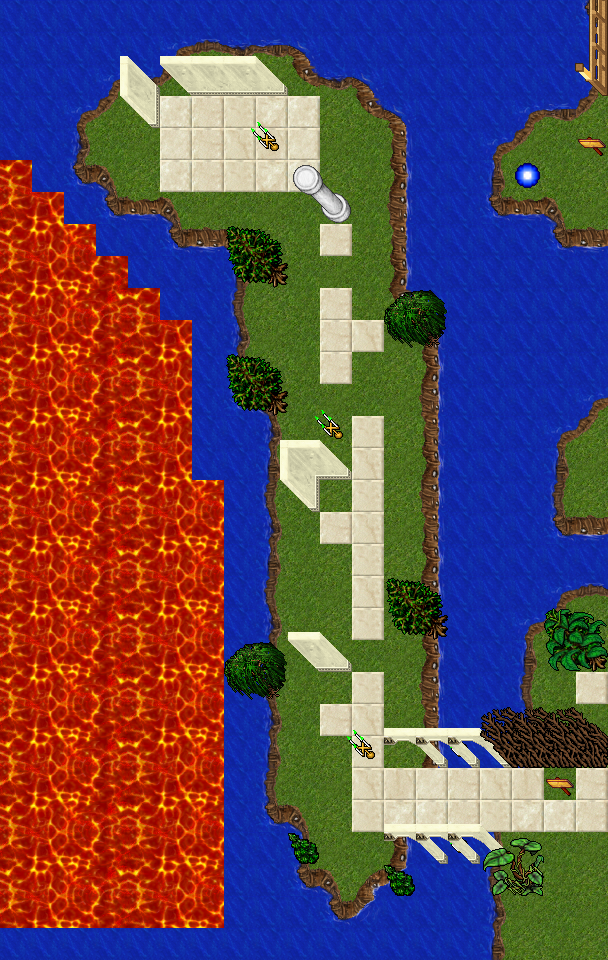
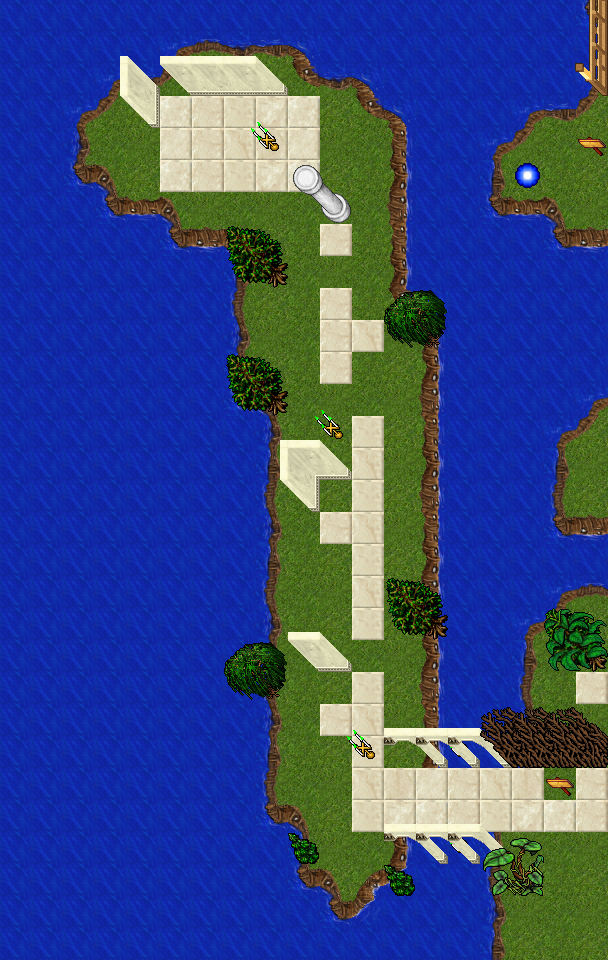
Replace lava visible from elven ruins with lake water

Changed region(s): [[0.0, 0.1562, 0.375, 0.9688]]

diff --git a/scripts/map/generate-elf-west.py b/scripts/map/generate-elf-west.py
@@ -33,6 +33,7 @@ LIGHT = 20353
 SIGN = (101, 72, 7)
 BRIDGE = {(x, y) for x in range(95, 101) for y in (72, 73)}
 ENTRY = (100, 73, 7)
+LAVA_SCREEN_RADIUS = (11, 9)  # ventana 9x7 del cliente + dos casillas de margen
 GROUPS = [((95, 65), [("Elf Scout", (95, 65), 150)]),
           ((94, 56), [("Elf Arcanist", (94, 56), 180)]),
           ((89, 51), [("Blue Elf Arcanist", (89, 51), 220),
@@ -139,6 +140,15 @@ def plan(values, otb):
     cells[SIGN] = list(values.get(SIGN, []))
     if 1429 not in cells[SIGN]:
         cells[SIGN].append(1429)
+    # Ampliar el lago: lava y agua bloquean igual. No tocar el piso del hunt vecino.
+    rx, ry = LAVA_SCREEN_RADIUS
+    screen = {(x + dx, y + dy, 7) for x, y in land | BRIDGE
+              for dx in range(-rx, rx + 1) for dy in range(-ry, ry + 1)}
+    for p in screen:
+        if values.get(p, [None])[0] in COAST.LAVA:
+            if len(values[p]) != 1:
+                continue  # conservar bordes/decoración del hunt fuera de la vista
+            cells[p] = [4608]
     return cells, land
 
 
@@ -186,8 +196,16 @@ def validate(values, cells, land, otb):
         old = values.get(p, [])
         if p[2] < 7 and free(old, otb) != free(new, otb):
             raise ValueError(f"Colisión de terraza alterada: {p}")
-        if not (85 <= p[0] <= 114 and 49 <= p[1] <= 76 and 4 <= p[2] <= 7):
+        water_screen = (p[2] == 7 and 75 <= p[0] <= 111 and 40 <= p[1] <= 85
+                        and len(old) == 1 and old[0] in COAST.LAVA and new == [4608]
+                        and not free(old, otb) and not free(new, otb))
+        if not water_screen and not (85 <= p[0] <= 114 and 49 <= p[1] <= 76 and 4 <= p[2] <= 7):
             raise ValueError(f"Fuera de ámbito: {p}")
+    for x, y, _z in expected:
+        for dx in range(-9, 10):
+            for dy in range(-7, 8):
+                if merged.get((x + dx, y + dy, 7), [None])[0] in COAST.LAVA:
+                    raise ValueError(f"Lava visible desde las ruinas: {x},{y}")
     return len(expected)
 
 

diff --git a/docs/items-and-map/ELF_WEST.md b/docs/items-and-map/ELF_WEST.md
@@ -32,8 +32,9 @@ los elfos en `100,73,7`, junto al cartel `101,72,7`, y cruza el puente hacia el 
 Son tres grupos separados 10 casillas Manhattan entre centros, lejos del acceso.
 El Blue Elf Arcanist es la variante cosmética ya definida: **no tiene stats más
 altos**. Los spawns anteriores del mundo permanecen byte por byte; se agrega el
-bloque `ELF_WEST_SPAWNS`. El hunt de fuego, el dragón negro, el islote de minotauros,
-la rampa al depot, las casas y los lockers no se modifican.
+bloque `ELF_WEST_SPAWNS`. Se conservan el piso caminable y los spawns del hunt de
+fuego; su franja de lava a la vista pasa a lago (ver abajo). El dragón negro, el
+islote de minotauros, la rampa al depot, las casas y los lockers no se modifican.
 
 ## Archivos y regeneración
 
@@ -57,3 +58,19 @@ cada terraza z4/z5/z6). Once lockers completos, todos los ítems con atributos,
 cofres, puertas, escaleras y spawns antiguos intactos. `check-upper-view` OK;
 `sync-houses-with-map.py --dry-run`: houses.xml coincide. Sin suites, cliente ni
 recorrido in-game por pedido del usuario. **Preparado, pendiente de activación**.
+
+
+## Lava fuera de la vista — 20 nov 2026
+
+Por pedido de Gonzalo, la franja de lava junto a las ruinas pasa a agua: **296
+casillas bloqueadas**. El lago cubre la ventana del cliente (9×7 desde cada
+casilla transitable de la isla/puente), con dos casillas adicionales de margen.
+Se conservan los bordes y objetos del hunt vecino fuera de esa vista.
+
+El generador incorpora el relleno y rechaza cualquier lava que aún sea visible
+desde una casilla transitable. Agua 4608 y lava 598–601 tienen exactamente los
+mismos flags OTB (`ground`, `block_solid`): no se abre ningún camino. Solo cambian
+esos suelos, sin tocar spawns, ítems con atributos, casas, depots ni geometría élfica.
+Segunda pasada: 0 tiles modificados. Imágenes actualizadas con los sprites reales.
+Respaldo: `backups/map/elf-no-lava-before/`. Pendiente de activación junto con la
+ampliación élfica; sin pruebas in-game.
